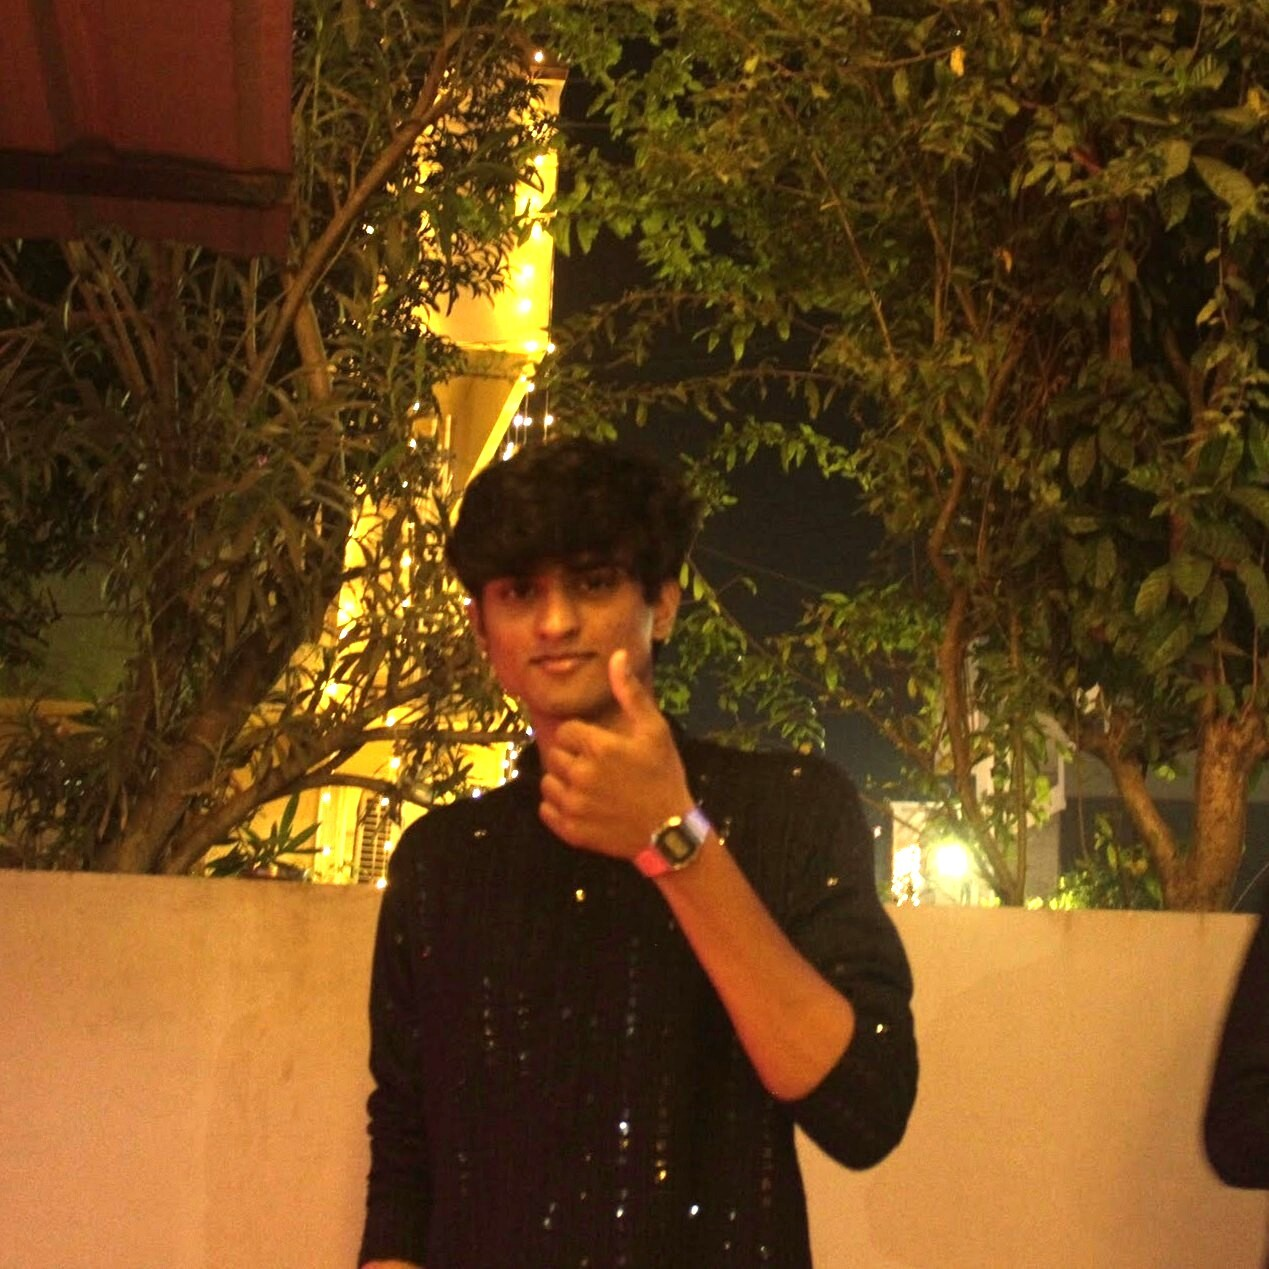
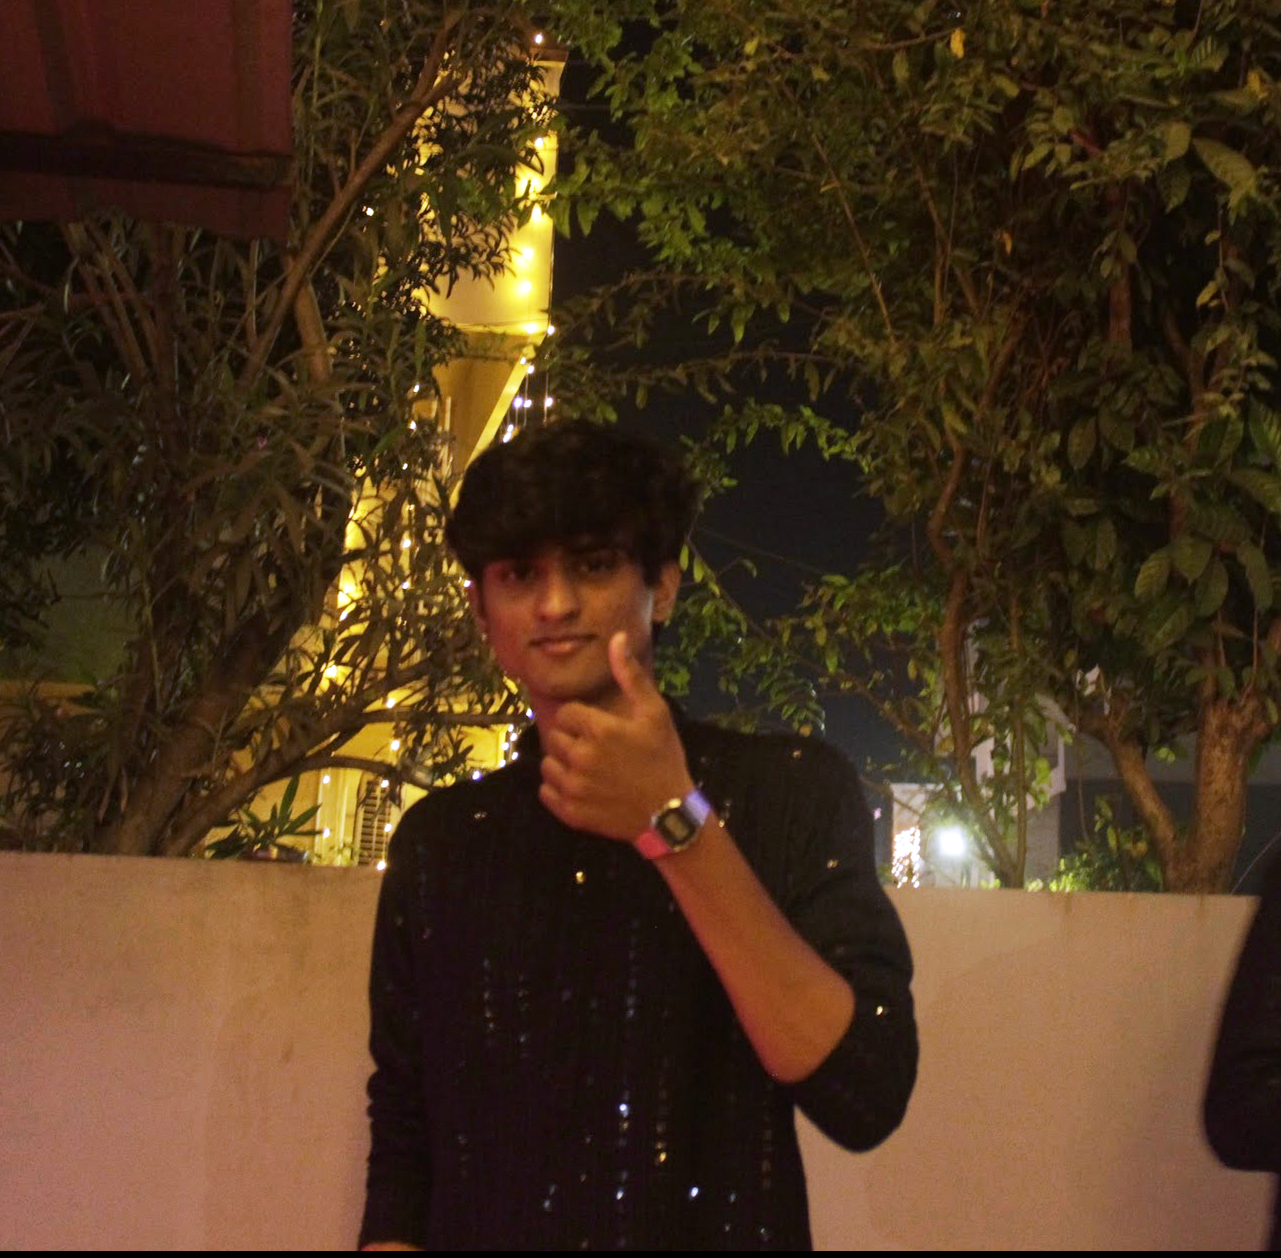
final images

diff --git a/app/team/page.jsx b/app/team/page.jsx
@@ -51,14 +51,14 @@ const teamData = [
   {
     title: "Mandar Tule",
     description: "Technical Team",
-    imageSrc: "https://images.unsplash.com/photo-1500648767791-00dcc994a43e?w=800&auto=format&fit=crop",
+    imageSrc: "/team/mandar.jpg",
     githubUrl: "https://github.com/username6",
     linkedinUrl: "https://linkedin.com/in/username6"
   },
   {
     title: "Natasha Khandar",
     description: "Management Team",
-    imageSrc: "https://images.unsplash.com/photo-1500648767791-00dcc994a43e?w=800&auto=format&fit=crop",
+    imageSrc: "/team/natasha.jpg",
     githubUrl: "https://github.com/username6",
     linkedinUrl: "https://linkedin.com/in/username6"
   },
